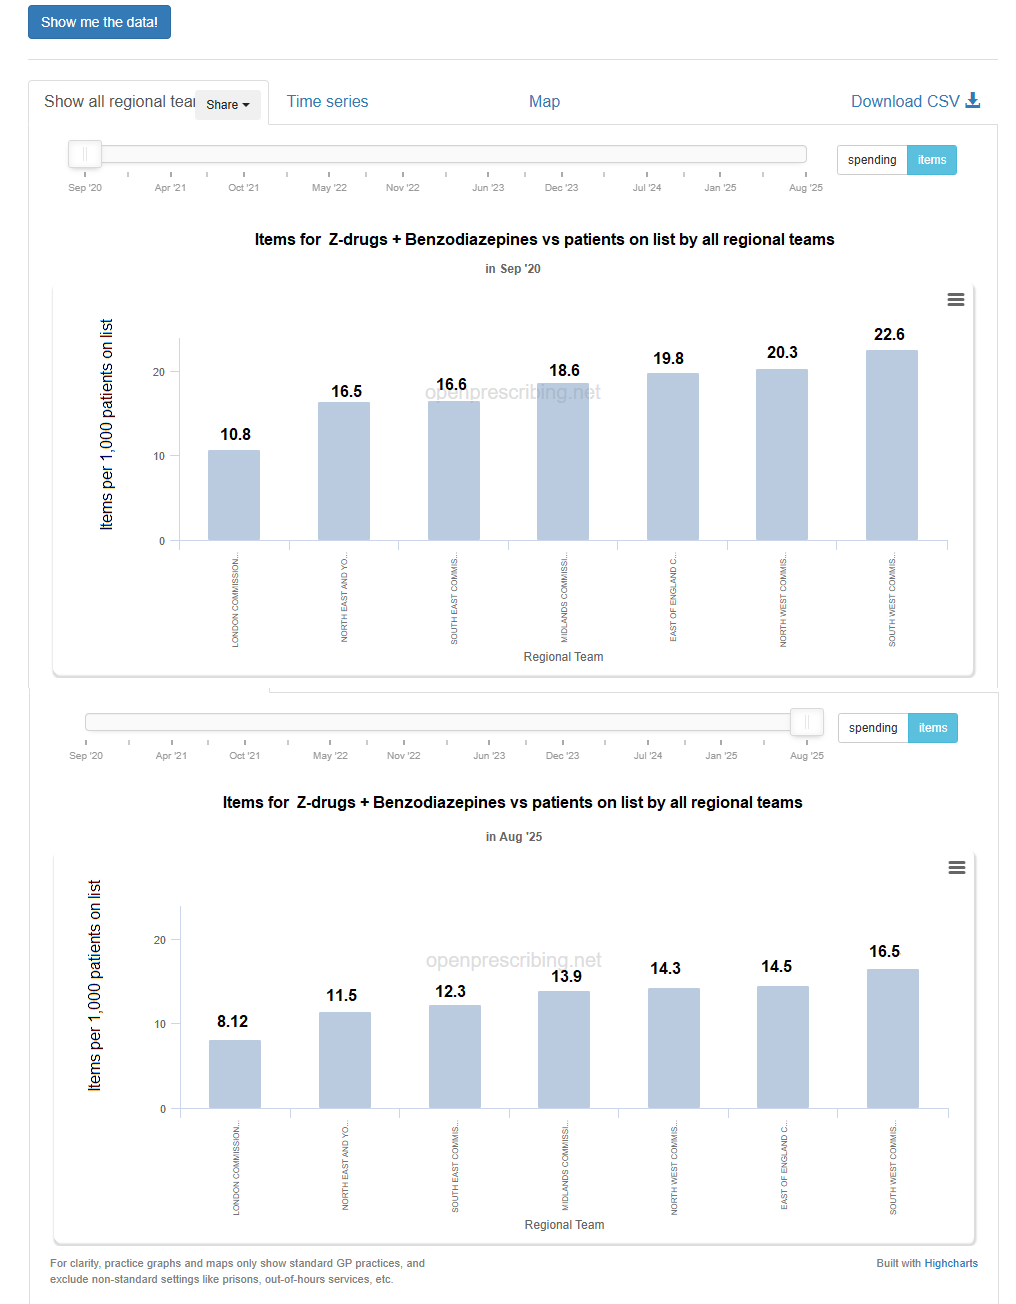
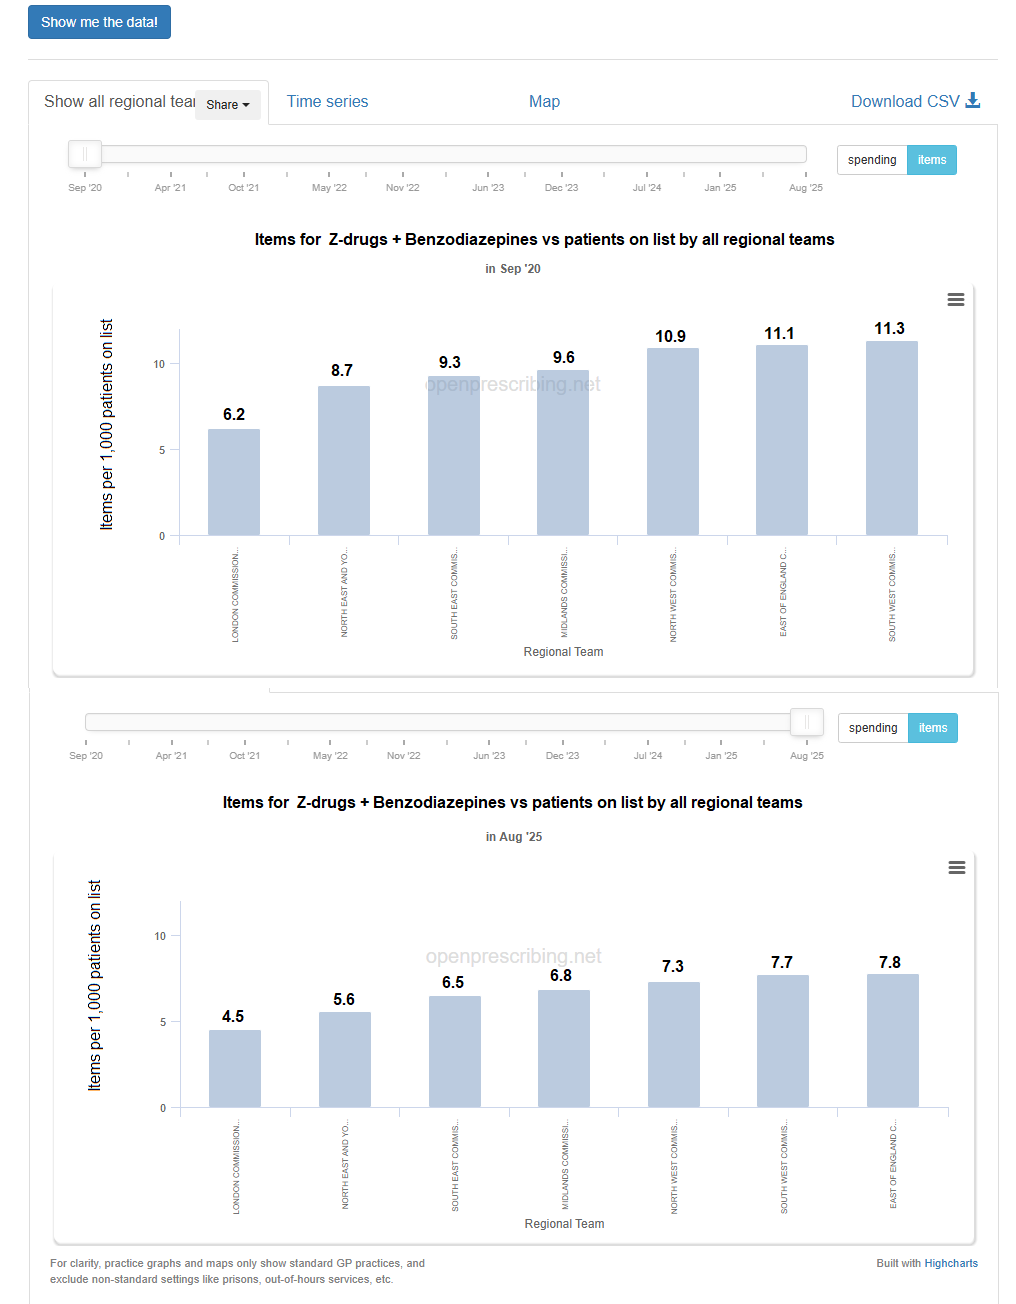
Update website content and layout

diff --git a/posts2.html b/posts2.html
@@ -92,8 +92,7 @@
         They then increased and remained relatively stable until August 2025, with average values of 27k items and 721k quantity for the period January 2023 to August 2025.
         Spending, however, followed a different pattern, rising dramatically from June 2022 to a peak of £1,112k in September before declining through December, fluctuating briefly, and then stabilising from March 2023 until August 2025.
         The period from June 2022 to February 2023 is particularly notable: while prescribing items and quantity fell sharply, spending increased significantly (costs more than tripled) - an interesting divergence in trends that warrants further investigation.</p>
-        <p>In sensitivity analyses restricted to Z-drugs, the South West consistently exhibited the highest prescribing rate, whereas London continued to have the lowest across the period 2020–2025 (Figure 2).</p>
-
+        <p>Sensitivity analyses: 1. Restricting to Z‑drugs, the South West had the highest and London the lowest prescribing rates (2020–2025, Figure 2). 2. Including melatonin (a hormone used to treat short-term sleep problems in people aged 55 and over) alongside Z‑drugs and benzodiazepines, London remained the lowest, while the East of England and South West had the highest prescribing rates(Figure 3).</p>
         <div> 
           <table class="data-table">
             <caption class="small-text text-center">Table: Summary of Temazepam Prescribing Data Across England (2020 - 2025) </caption>
@@ -147,6 +146,11 @@
            <img src="/assets/img/Z_drugs_time_series.png" alt="Figure2" class="responsive-img">
         <p class="small-text text-center">Figure 2 : Prescribing rates for Z-drugs across regions in England (2020 - 2025) </p>
       </div>
+      
+      <div class="col-md-6 d-flex flex-column align-items-center"> 
+           <img src="/assets/img/z_drugs_Benzo_Melatonin_117.png" alt="Figure3" class="responsive-img">
+         <p class="small-text text-center">Figure 3 : Prescribing rates for Z-drugs + Benzodiazepines + Melatonin across regions in England (2020 - 2025) </p>
+      </div>  
     </div>
 
       <!-- <div class="col-md-6">
@@ -156,9 +160,10 @@
 
     <div class="col-md-6">
         <p class="mt-0"> <b>Share analysis</b></p>
-        <p class="small-text"> <a style="text-decoration: none;" href="https://openprescribing.net/analyse/#org=regional_team&numIds=0401010R0,0401010R0AA,0401010R0AAAUAU,0401010R0AAAAAA,0401010R0AAAQAQ,0401010R0AAAVAV,0401010R0AAATAT,0401010R0AAAXAX,0401010R0AAACAC,0401010R0AAANAN,0401010T0AAANAN,0401010T0AAAMAM,0401010T0AAAEAE,0401010T0AA,0401010T0,0401010R0BD,0401010R0BDAAAC,0401020P0BC,0401020P0BCAAAA,0401020P0AACACA,0401020P0AACDCD,0401020P0AACECE,0401020P0AACICI,0401020P0AACKCK,0401020P0AAABAB,0401020P0AABHBH,0401020P0AACMCM,0401020P0AACLCL,0401020P0AAACAC,0401020P0AACHCH,0401020P0AACJCJ,0401020P0AABRBR,0401020P0AAAAAA,0401020P0AABXBX,0401020P0AACFCF,0401020P0AACGCG,0401020P0AAADAD,0401020P0AABJBJ,0401020K0,0401020K0BL,0401020K0AA,0401020K0AAAEAE,0401020K0AAAQAQ,0401020K0AAACAC,0401020K0AAA1A1,0401020K0AACKCK,0401020K0BLABAE,0401020K0AABBBB,0401020K0AAAJAJ,0401020K0AABKBK,0401020K0AABQBQ,0401020K0AABMBM,0401020K0AACBCB,0401020K0AACLCL,0401020K0BLACBQ,0401020K0AAA6A6,0401020K0AAAWAW,0401020K0AACICI,0401020K0AACMCM,0401020K0AAAHAH,0401020K0AAADAD,0401020K0AABWBW,0401020K0AACJCJ,0401020K0BLAAAD,0401020K0AAAIAI,15.1.4.1,0401010Z0,0401010Z0AA,0401010Z0AAAJAJ,0401010Z0AAAKAK,0401010Z0AAACAC,0401010Z0AAABAB,0401010Z0AAAMAM,0401010Z0AAALAL,0401010Z0AAAAAA,0401010AE,0401010AEAA,0401010AEAAAAAA,0401010AEAAABAB,0401010AEAAACAC,0401010Y0,0401010Y0AA,0401010Y0AAAEAE,0401010Y0AAABAB,0401010Y0AAACAC,0401010Y0AAADAD,0401010Y0AAAAAA,0401010Z0BBAAAA,0401010Z0BBABAC&denom=total_list_size&selectedTab=chart/"> Z-drugs+Benzodiazepines</a> &nbsp; &nbsp;
-         <a style="text-decoration: none;" href="https://openprescribing.net/analyse/#org=regional_team&numIds=0401010AE,0401010Z0,0401010AEAA,0401010Z0AA,0401010AEAAAAAA,0401010AEAAABAB,0401010AEAAACAC,0401010Z0AAAJAJ,0401010Z0AAACAC,0401010Z0AAABAB,0401010Z0AAAKAK,0401010Z0AAAMAM,0401010Z0AAALAL,0401010Z0AAAAAA,0401010Z0BBAAAA,0401010Z0BBABAC,0401010Y0,0401010Y0AA,0401010Y0AAAEAE,0401010Y0AAABAB,0401010Y0AAACAC,0401010Y0AAADAD,0401010Y0AAAAAA&denom=total_list_size&selectedTab=map"> Z-drugs </a> &nbsp; &nbsp;&nbsp;
-         <a style="text-decoration: none;" href="https://openprescribing.net/chemical/0401010T0/"> Temazepam </a> </p>
+        <p class="small-text"><a style="text-decoration: none;" href="https://openprescribing.net/analyse/#org=regional_team&numIds=0401010Z0,0401010Z0AA,0401010Z0AAAJAJ,0401010Z0AAACAC,0401010Z0AAABAB,0401010Z0AAAKAK,0401010Z0AAAMAM,0401010Z0AAALAL,0401010Z0AAAAAA,0401010Z0BBAAAA,0401010Z0BBABAC,0401010Y0,0401010Y0AA,0401010Y0AAAEAE,0401010Y0AAABAB,0401010Y0AAACAC,0401010Y0AAADAD,0401010Y0AAAAAA&denom=total_list_size&selectedTab=summary"> Z-drugs </a> &nbsp; &nbsp;&nbsp;
+          <a style="text-decoration: none;" href="https://openprescribing.net/analyse/#org=regional_team&numIds=0401010Z0,0401010Z0AA,0401010Z0AAAJAJ,0401010Z0AAACAC,0401010Z0AAABAB,0401010Z0AAAKAK,0401010Z0AAAMAM,0401010Z0AAALAL,0401010Z0AAAAAA,0401010Z0BBAAAA,0401010Z0BBABAC,0401010Y0,0401010Y0AA,0401010Y0AAAEAE,0401010Y0AAABAB,0401010Y0AAACAC,0401010Y0AAADAD,0401010Y0AAAAAA,0401010R0AAAUAU,0401010R0AAAAAA,0401010R0AAAQAQ,0401010R0AAAVAV,0401010R0AAATAT,0401010R0AAAXAX,0401010R0AAACAC,0401010R0AAANAN,0401010R0BD,0401010R0BDAAAC,0401010N0,0401010N0AA,0401010N0AAAAAA,0401010P0AAAHAH,0401010P0AAAGAG,0401010P0AAACAC,0401010P0AAAFAF,0401010P0AAABAB,0401010T0AAAEAE,0401010T0AAAMAM,0401010T0AAANAN,0401010T0,0401010T0AA&denom=total_list_size&selectedTab=summary"> Z-drugs+Benzodiazepines</a> &nbsp; &nbsp;
+          <a style="text-decoration: none;" href="https://openprescribing.net/analyse/#org=regional_team&numIds=0401010Z0,0401010Z0AA,0401010Z0AAAJAJ,0401010Z0AAACAC,0401010Z0AAABAB,0401010Z0AAAKAK,0401010Z0AAAMAM,0401010Z0AAALAL,0401010Z0AAAAAA,0401010Z0BBAAAA,0401010Z0BBABAC,0401010Y0,0401010Y0AA,0401010Y0AAAEAE,0401010Y0AAABAB,0401010Y0AAACAC,0401010Y0AAADAD,0401010Y0AAAAAA,0401010R0AAAUAU,0401010R0AAAAAA,0401010R0AAAQAQ,0401010R0AAAVAV,0401010R0AAATAT,0401010R0AAAXAX,0401010R0AAACAC,0401010R0AAANAN,0401010R0BD,0401010R0BDAAAC,0401010N0,0401010N0AA,0401010N0AAAAAA,0401010P0AAAHAH,0401010P0AAAGAG,0401010P0AAACAC,0401010P0AAAFAF,0401010P0AAABAB,0401010T0AAAEAE,0401010T0AAAMAM,0401010T0AAANAN,0401010T0,0401010T0AA,0401010ADBC,0401010ADBCBZCY,0401010ADBCCACY,0401010ADBCCDAE,0401010ADBCCBBR,0401010ADBCCEBS,040101000BBAQA0,0401010ADAACDCD,0401010ADAACECE,0401010ADAAAKAK,0401010ADAACNCN,0401010ADAABTBT,0401010ADAABQBQ,0401010ADAACTCT,0401010ADAACZCZ,0401010ADAACUCU,0401010ADAABMBM,0401010ADAAAIAI,0401010ADAACFCF,0401010ADAACGCG,0401010ADAACRCR,0401010ADAABYBY,0401010ADAABZBZ,0401010ADAAAHAH,0401010ADAAAEAE,0401010ADAADFDF,0401010ADAACHCH,0401010ADAABKBK,0401010ADAACACA,0401010ADAACBCB,0401010ADAABRBR,0401010ADAABIBI,0401010ADAAAJAJ,0401010ADAAAQAQ,0401010ADAACCCC,0401010ADAACYCY,0401010ADAADCDC,0401010ADAAAUAU,0401010ADAACPCP,0401010ADAAACAC,0401010ADAAASAS,0401010ADAADADA,0401010ADAADDDD,0401010ADAADEDE,0401010ADAABSBS,0401010ADAACVCV,0401010ADAABLBL,0401010ADAABWBW,0401010ADAABVBV,0401010ADAACXCX,0401010ADAACQCQ,0401010ADAACICI,0401010ADAACLCL,0401010ADAACMCM,0401010ADAACSCS,0401010ADAABJBJ,0401010ADAACWCW,0401010ADBCCCBL,0401010ADAABGBG,0401010ADAAAAAA,0401010ADBB,0401010ADBBAAAA,0401010ADBD,0401010ADBDAACU,0401010ADBDABCV,0401010ADBG,0401010ADBGAAAI,0401010ADBGABBK,0401010ADBGACCY,0401010ADBGADCP,0401010ADBGAEBL,0401010ADBF,0401010ADBFABCZ,0401010ADBFAACY,0401010ADBE,0401010ADBEAACY&denom=total_list_size&selectedTab=summary"> Z-drugs+Benzodiazepines + Melatonin</a> &nbsp; &nbsp;
+          <a style="text-decoration: none;" href="https://openprescribing.net/chemical/0401010T0/"> Temazepam </a> </p>
       </div>
   <p>  </p>
   

diff --git a/posts.html b/posts.html
@@ -81,10 +81,10 @@
       <p> <b>A First- Glance at NHS GP Prescribing of Sleep Medications: Z drugs and Benzodiazepines (2020–2025) Using OpenPrescribing</b></p>
       <p class="small-text" style="text-align:justify;"> (First Published Online 10 November 2025)</p>
       <p> I have worked on a range of data-driven projects for some time, OpenPrescribing was entirely new to me.  Curious about who it was built for, how it works, and whether I could find something interesting or inspiring,  I decided to dive in and give it a try. From time to time, I explored OpenPrescribing, mostly to become familiar with its features. I found it to be an excellent example of how simplicity and power can coexist in a well-designed tool, and I was impressed by its clean, intuitive interface and surprisingly strong analytical capabilities.</p>
-      <p>I took a closer look recently at OpenPrescribing after coming across a topic that drew my interest - sleep medications. Although sleeping pills are prescribed to aim sleep and support health, research suggests that deprescribing unnecessary sleep drugs can improve well-being and benefit in older adults [1], as these medications are linked to cognitive decline and increased injury risk [2-5] . Interested in prescribing patterns and potential regional differences, I looked into GP prescriptions for Z-drugs (Zopiclone/Zimovane, Zolpidem) and Benzodiazepines in England (2020 - 2025), using the OpenPrescribing platform.</p>
-      <p>Here’s what I did: In <a href="https://openprescribing.net/"> OpenPrescribing </a>, click “Start analysing” to launch the “Analyse” interface. Enter the drug names and select lists containing all available formulations (tablets, capsules, liquids, and suspensions) across all doses. Then choose “versus – total list size,” highlight “NHS England Region” and click “Show me the data” to generate figures and a downloadable CSV data file. Following this process, I obtained Figure 1 (line chart), which shows the prescribing trend for Z-drugs and Benzodiazepines by region from 2020 to 2025. Figure 2 (map) and Figure 3 (bar chart) present snapshots of prescribing rates across regions in September 2020 and August 2025. </p>
+      <p>I took a closer look recently at OpenPrescribing after coming across a topic that drew my interest - sleep medications. Although sleeping pills are prescribed to aim sleep and support health, research suggests that deprescribing unnecessary sleep drugs can improve well-being and benefit in older adults [1], as these medications are linked to cognitive decline and increased injury risk [2-5] . Interested in prescribing patterns and potential regional differences, I looked into GP prescriptions in England (2020 - 2025) for Z-drugs (Zopiclone, Zolpidem) and hypnotic benzodiazepines (Nitrazepam, Loprazolam, Lormetazepam, Temazepam) for the short term treatment of insomnia, using the OpenPrescribing platform.</p>
+      <p>Here’s what I did: In <a href="https://openprescribing.net/"> OpenPrescribing </a>, click “Start analysing” to launch the “Analyse” interface. Enter the drug names and select lists containing all available formulations (tablets, capsules, liquids, and suspensions) across all doses. Then choose “versus – total list size,” highlight “NHS England Region” and click “Show me the data” to generate figures and a downloadable CSV data file. Following this process, I obtained Figure 1 (line chart), which shows the prescribing trend for Z-drugs and benzodiazepines by region from 2020 to 2025. Figure 2 (map) and Figure 3 (bar chart) present snapshots of prescribing rates across regions in September 2020 and August 2025. </p>
       <p>My preliminary observations revealed three key findings:</p>
-      <p> Despite periodic ups and downs in prescribing rates across regions, overall prescribing declined gradually, showing a consistent and marked downward trend from 2020 to 2025. A recurrent bimodal seasonal pattern is also evident, characterised by an initial peak in December, a drop in January, and a subsequent rise to a higher peak in March. Finally, there is substantial and persistent regional variation in the prescribing rate, with the South West's average monthly rate (21 items per 1,000 patients) consistently being more than double that of London (10 per 1,000) across the 2021–2025 period. </p> 
+      <p> Despite periodic ups and downs in prescribing rates across regions, overall prescribing declined gradually, showing a consistent and marked downward trend from 2020 to 2025. A recurrent bimodal seasonal pattern is also evident, characterised by an initial peak in December, a drop in January, and a subsequent rise to a higher peak in March. Finally, there is substantial and persistent regional variation in the prescribing rate, with the South West's average monthly rate (10 items per 1,000 patients) consistently being about double that of London (5 per 1,000) over the 2021–2025 period. </p> 
       <p>These visual findings also raise several further questions:</p>
       <ul>
       <li> What factors are driving the overall decline in prescriptions across England? Are policy changes, clinical guidelines, or public awareness campaigns contributing to this decline? </li>
@@ -109,7 +109,7 @@
       <div class="col-md-6">
         <p class="mt-0"> <b>Figures</b></p>
         <img src="/assets/img/Z_Benzo_drugs_rmv2_time_series.png" alt="Figure1" class="responsive-img">
-        <p class="small-text">Figure 1: Prescribing items for Z-drugs and Benzodiazepines vs patients on list by region: five-year time series from September 2020 to projected August 2025 </p>
+        <p class="small-text">Figure 1: Prescribing items for Z-drugs and benzodiazepines vs patients on list by region: five-year time series from September 2020 to projected August 2025 </p>
       </div>
       <div class="col-md-6">
         <img src="/assets/img/Z_Benzo_drugs_rmv2_map_2020_2025.png" alt="Figure2" class="responsive-img">
